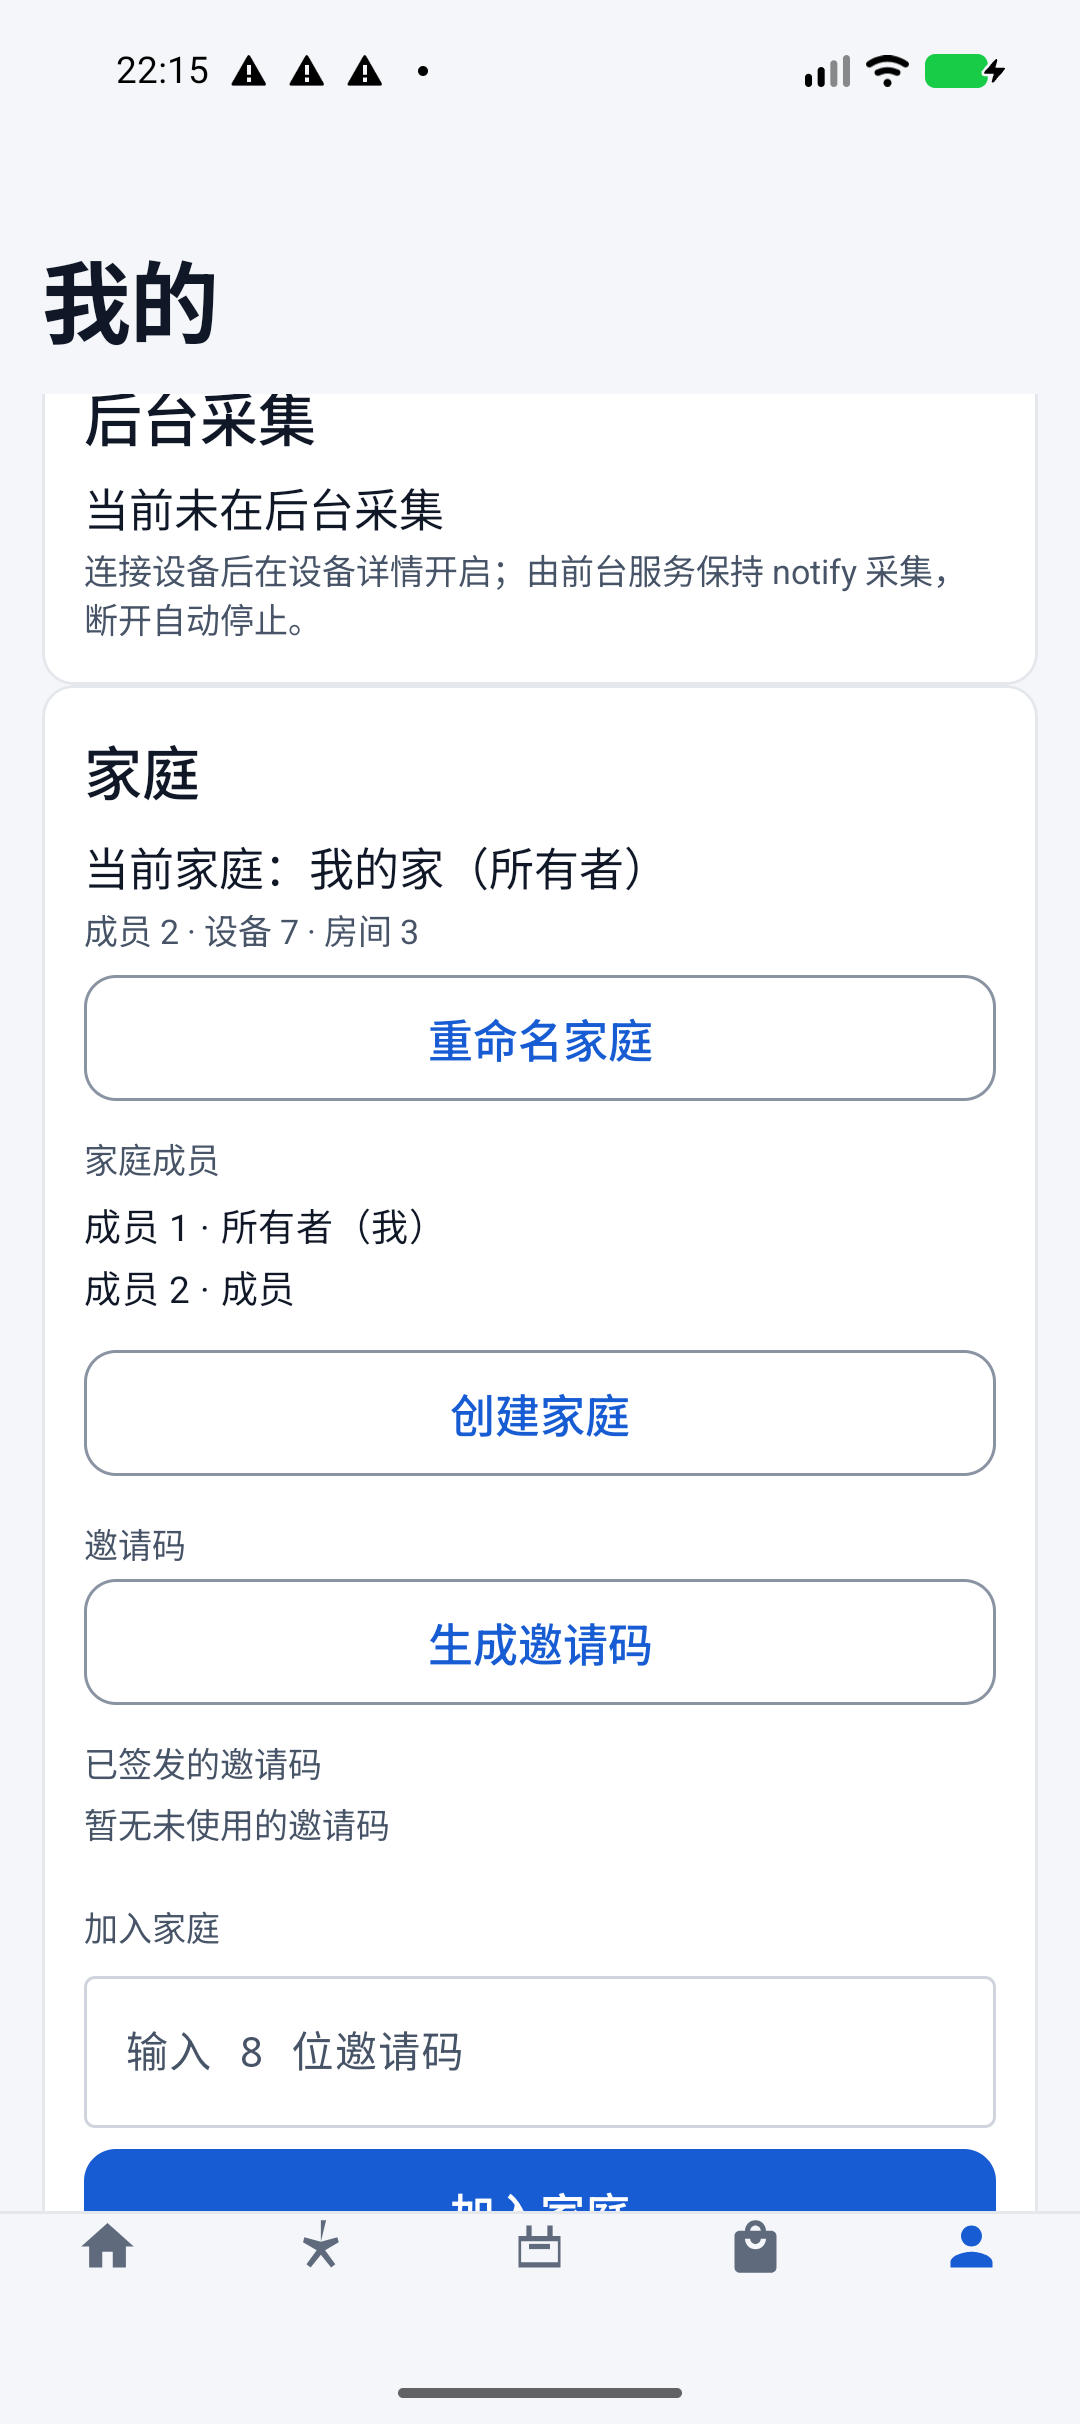
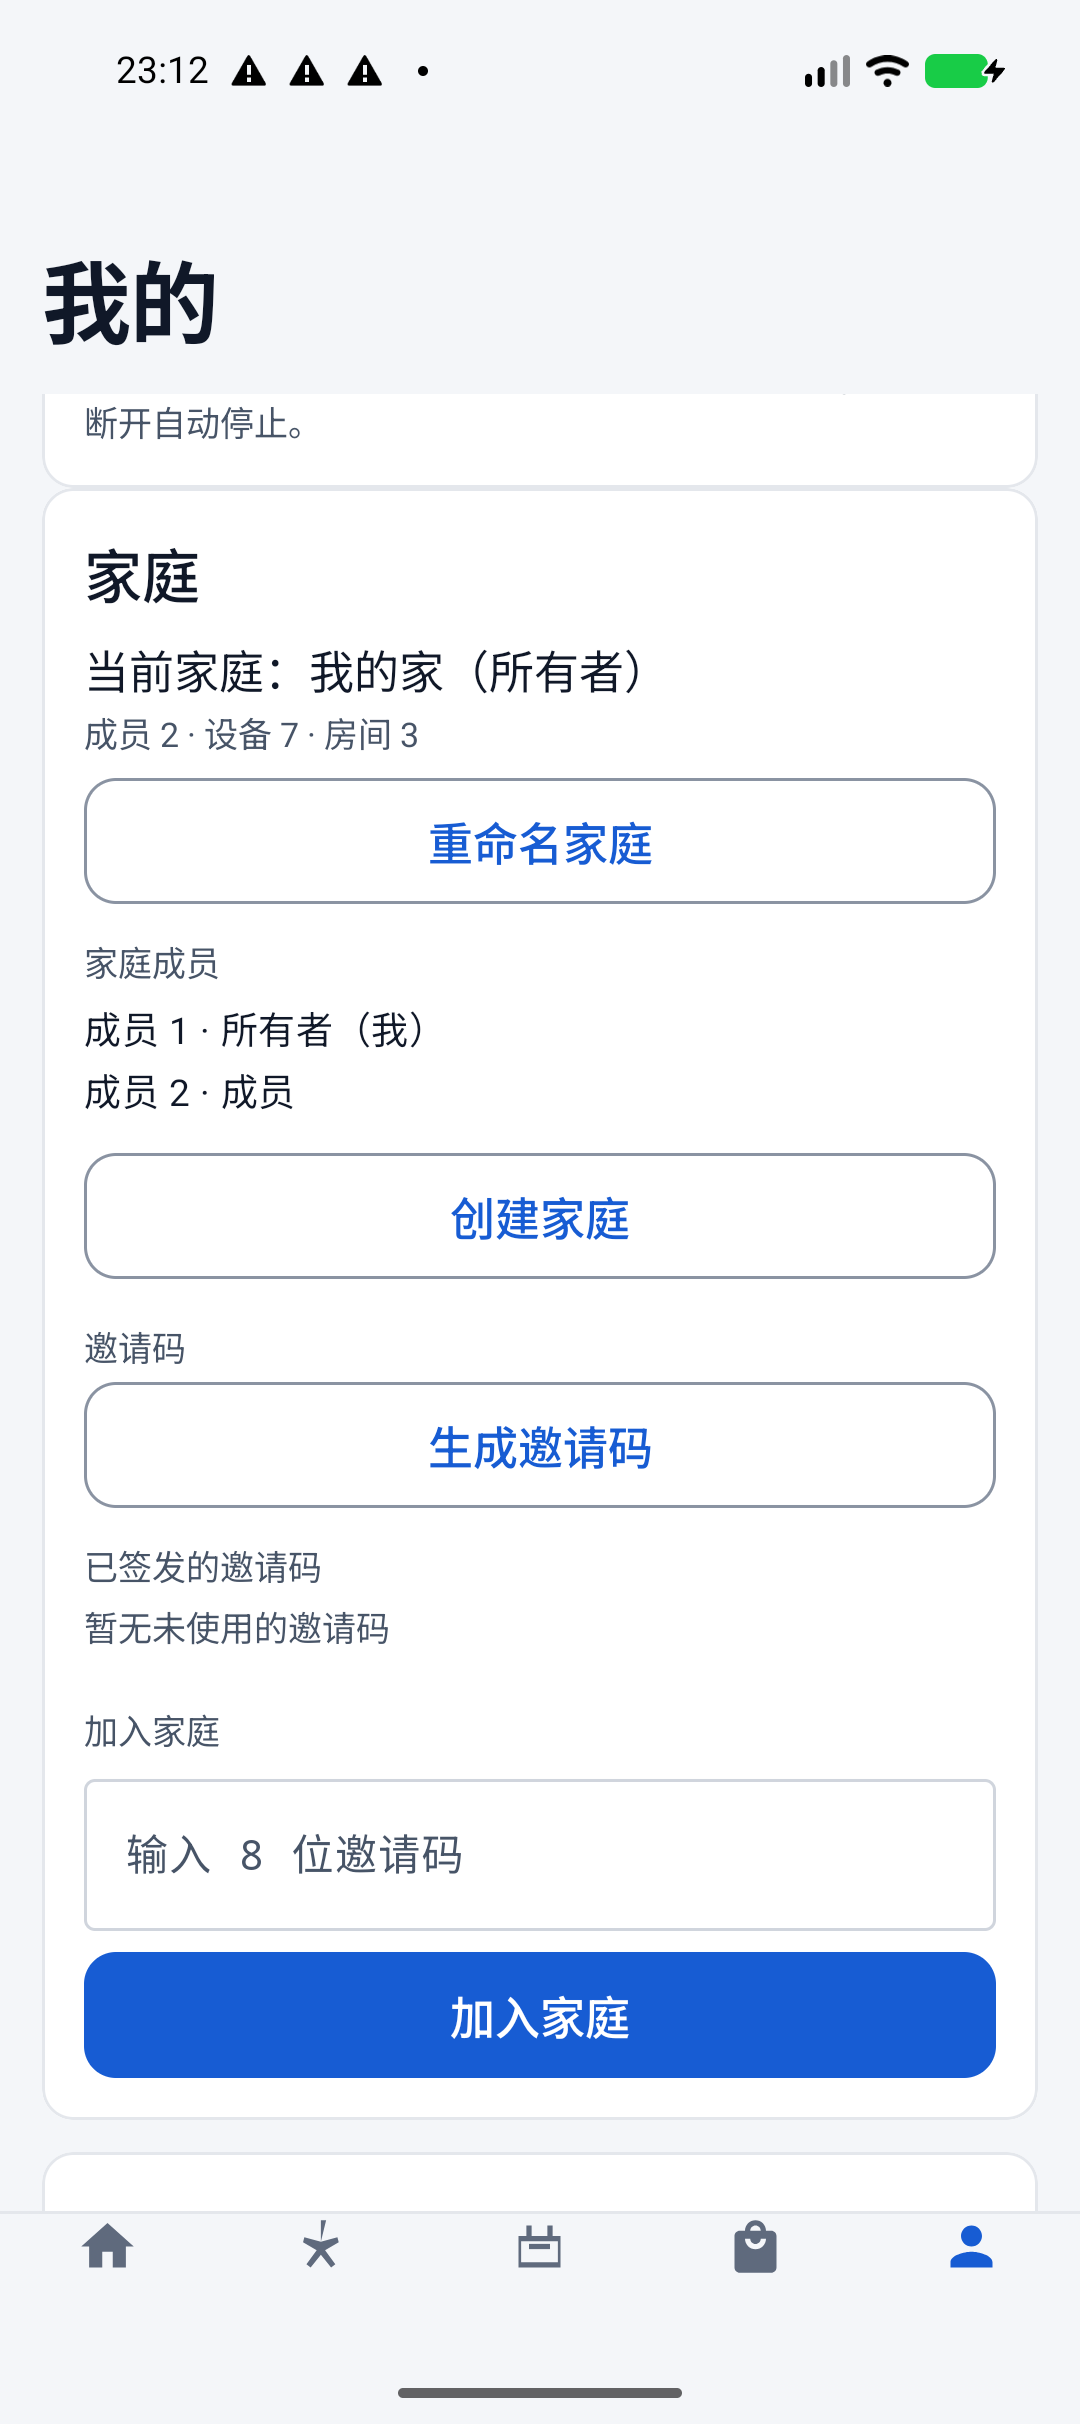
docs: v0.27.0 截图与验收记录
重截 16 张截图并逐页对齐底部，确保不被 Tab/手势条切断；README 与
acceptance 同步四项修复说明，版本升到 0.27.0（versionCode 35）。

diff --git a/docs/acceptance.md b/docs/acceptance.md
@@ -1,9 +1,9 @@
-# 真机验收清单（v0.26.0）
+# 真机验收清单（v0.27.0）
 
 本清单用于「执行人不在开发现场」时也能照着做完验收。每项都写明**操作步骤、预期现象、失败判定**。
 所有结果请记录到文末的「验收记录表」；未实际执行的项不要填 PASS。
 
-- 适用版本：`versionName = 0.26.0`（`versionCode = 34`）
+- 适用版本：`versionName = 0.27.0`（`versionCode = 35`）
 - 应用包名：`com.platojobs.pkotlinapp`
 - 主界面：`com.platojobs.pkotlinapp.ui.MainActivity`
 - 设备详情：`com.platojobs.pkotlinapp.ui.detail.DeviceDetailActivity`
@@ -55,7 +55,7 @@ adb install -r app/build/outputs/apk/debug/app-debug.apk
 adb shell dumpsys package com.platojobs.pkotlinapp | grep -E "versionName|versionCode"
 ```
 
-预期：`versionName=0.26.0`、`versionCode=34`。
+预期：`versionName=0.27.0`、`versionCode=35`。
 
 ---
 
@@ -1311,7 +1311,7 @@ apksigner verify --print-certs app/build/outputs/apk/release/app-release.apk
 - 跨 DST 的真实时区切换（自动化已覆盖 02:30 → 03:30 与秋季重复小时，真机仅作补充）。
 - 场景 6 个 `SCENE_*` 码在真实后端联调环境的逐条触发（fixture 中只做了映射与文案验证）。
 
-## 14. 真 Postgres e2e 与界面截图（v0.26.0）
+## 14. 真 Postgres e2e 与界面截图（v0.27.0）
 
 ### 14.1 场景链路（真 Postgres）
 
@@ -1329,12 +1329,19 @@ apksigner verify --print-certs app/build/outputs/apk/release/app-release.apk
 
 - 环境：Pixel_10a 模拟器（Android 37，1080×2400）+ 本机 `PJGoIoT v0.22.0` 干净 worktree（API `10.0.2.2:8080`，真 Postgres），App 使用 `-PapiBaseUrl=http://10.0.2.2:8080/` 构建。
 - 造数：`python3 scripts/seed-screenshots.py http://127.0.0.1:8080/api/v1`，再用配对码在「我的 → 8 位配对码」接管账号，最后 `python3 scripts/seed-local-db.py` 注入本地读数与扫描日志；数据含 3 家庭 / 6 房间 / 12 设备（7/3/2 分布，5 种型号、2 台离线）/ 4 场景（1 个 `rejected`、1 个定时、1 个 `deviceMissing`）/ 3 条服务端反馈（1 条已关闭）/ 12 条本地扫描日志；服务端读数每 10 分钟一条、共 7 天。
-- 预期：16 张截图位于 `docs/screenshots/`，覆盖首页、设备详情（24 小时 48 桶、折线 + min–max 带、横轴 `MM-dd`）、智能（列表 + 详情）、产品（列表 + 详情）、市场、我的、我的 · 家庭区（`profile_household.png`，成员显示「成员 N · 角色」而非原始 ID）、我的 · 扫描日志（`profile_scan_logs.png`，12 条）、房间、会话、反馈详情，以及 200% 字号的首页与场景页；`README.md` 以相对路径引用并写明来源。
+- 预期：16 张截图位于 `docs/screenshots/`，覆盖首页、设备详情（连接状态与设备信息同为「未连接」、24 小时 48 桶、折线 + min–max 带、横轴 `MM-dd`、导出说明与按钮完整）、智能（列表 + 详情）、产品（列表 + 详情）、市场、我的、我的 · 家庭区（`profile_household.png`，成员显示「成员 N · 角色」而非原始 ID）、我的 · 扫描日志（`profile_scan_logs.png`，12 条、MAC 为 `C8:47:8C:` 假地址）、房间、会话、反馈详情，以及 200% 字号的首页与场景页；每张图的关键文字/按钮都不被底部 Tab、手势条或悬浮按钮切断；`README.md` 以相对路径引用并写明来源。
 - 失败判定：出现占位图/拼图/旧图、页面空白或崩溃、可滚动页面最后一项被系统手势条遮挡、设备详情指标名显示「其他」而原始 key 不是未知值、200% 字号下文字重叠或按钮不可点。
 
 ### 14.4 截图过程中修复的界面问题（需单独提交）
 
-本版（v0.26.0）：
+本版（v0.27.0）：
+
+- 设备详情底部「导出 CSV」按钮压住说明文字：导出行改为纵向布局，滚动容器底部 padding = 48dp + `systemBars.bottom`，滚到底时正文/按钮完整位于手势条上方；全仓无 `FloatingActionButton`。
+- 「连接状态」显示正在连接 + -55 dBm + 断开连接，而「设备信息」显示当前未连接：新增 `ConnectionUi` 单一状态源，三态文案与按钮同源派生，连接中隐藏 RSSI、按钮变「取消」，补 `ConnectionUiTest`。
+- 截图底部被 Tab 压断：重截首页、设备详情、场景、家庭区、扫描日志、产品列表/产品详情（GATT 末行）、市场明细、房间管理、会话与两张 200% 字号截图，逐页滚动到关键卡片完整可见再截。
+- MAC 占位值 `AA:BB:CC:00:01:01` 改为 `C8:47:8C:` 开头的假地址，seed 脚本同步，`seed-local-db.py` 按设备名匹配。
+
+v0.26.0（历史）：
 
 - 设备详情 24 小时图只有两个数据点、几乎空白：seed 读数只集中在几分钟内；改为 7 天、每 10 分钟一条原始读数，并由客户端把原始读数聚合成 30 分钟桶（48 桶），7 天视图走服务端 `1h`（168 桶）。
 - 折线 `Paint` 默认 `FILL`，`drawPath` 把开放折线隐式闭合填成实心面，盖住 min–max 区间带；改为 `Paint.Style.STROKE`。
